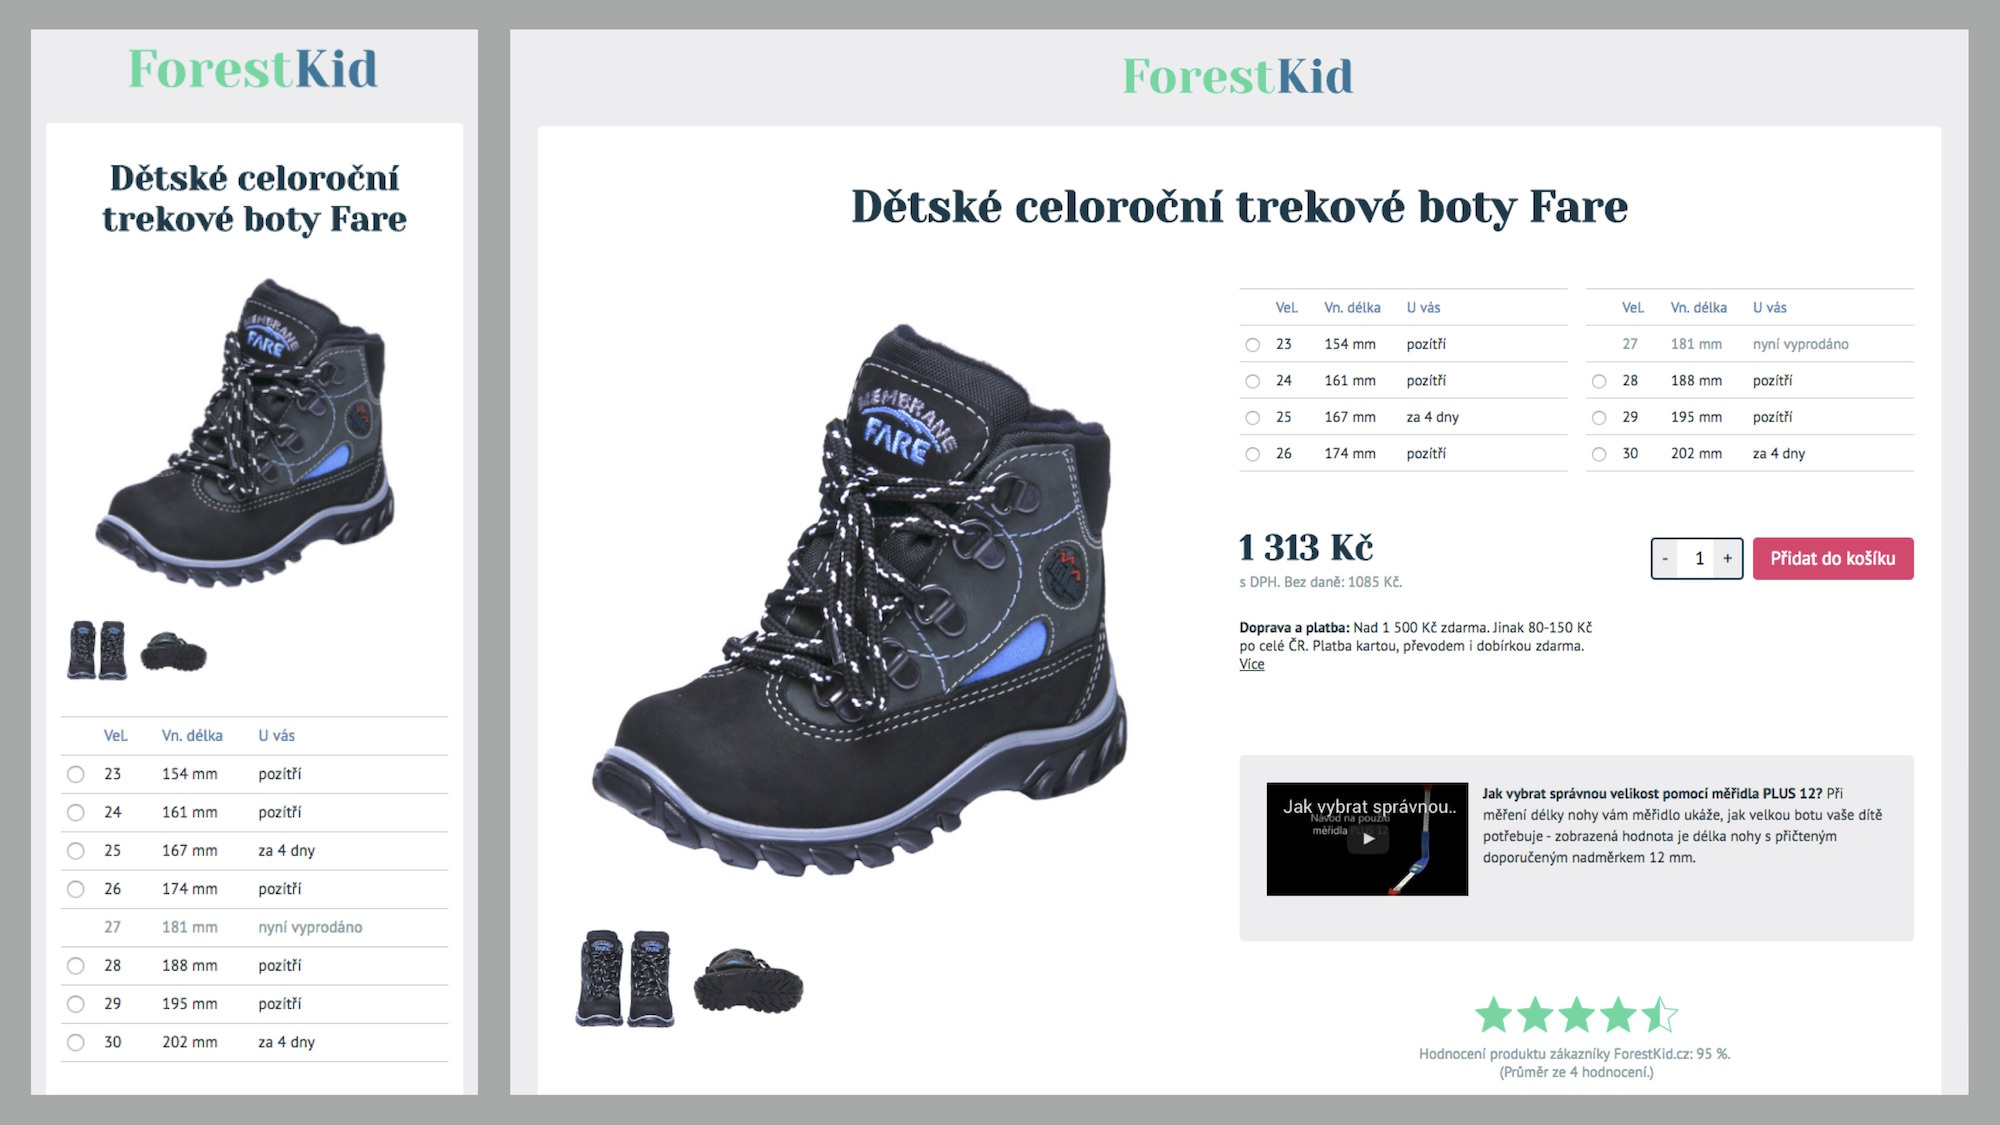
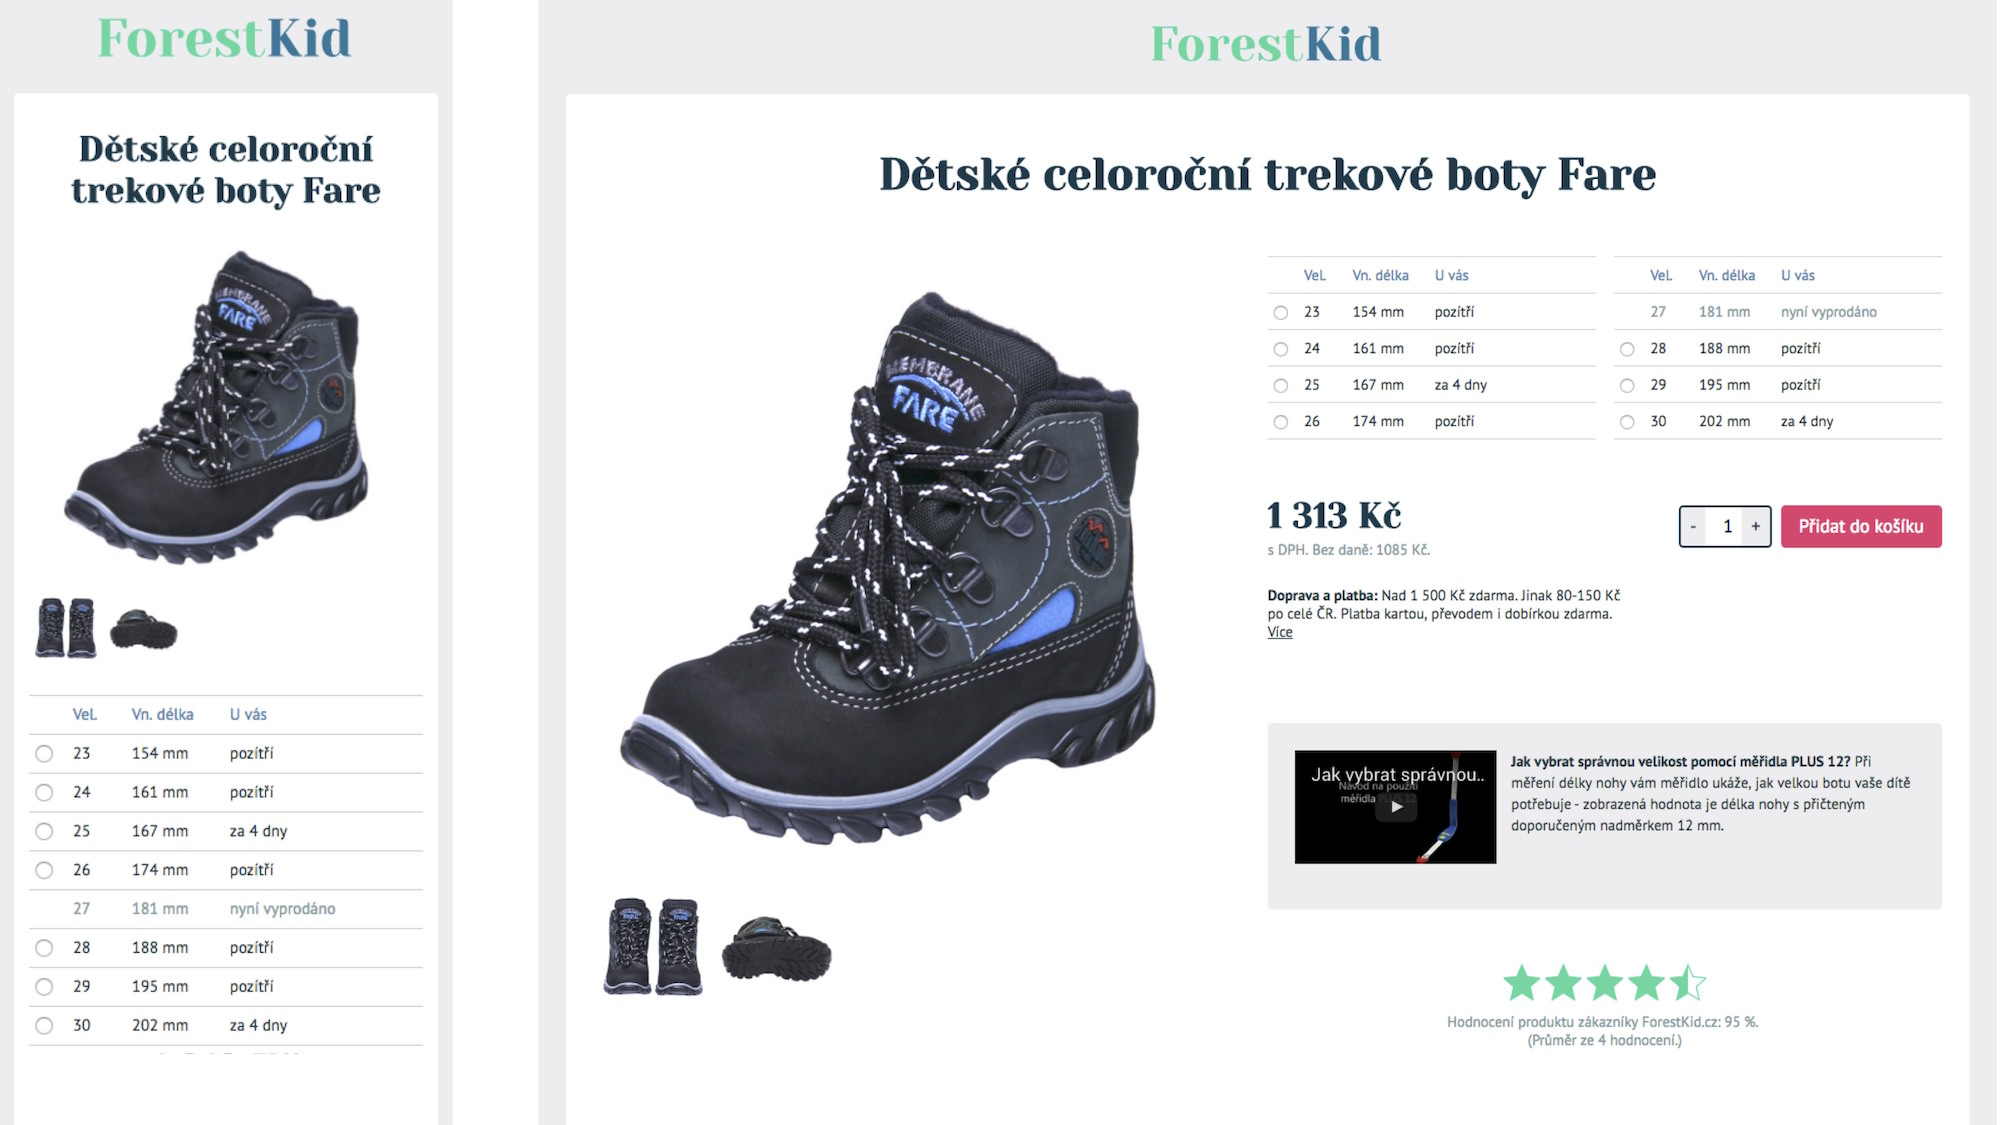
VDWD - posledni nove obrazky

diff --git a/content/skicovani.md b/content/skicovani.md
@@ -5,7 +5,7 @@ Skicování je metoda rychlého zhmotnění myšlenky. Skicuji velmi rád, skicu
 Na papír si skicou odložím základní obrysy problému a uvolním mentální kapacity na jeho vyhodnocování nebo hledání řešení.
 
 <figure>
-<img src="dist/images/original/skicovani-1.png" alt="">
+<img src="dist/images/original/skicovani-1.jpg" alt="">
 <figcaption markdown="1">    
 *Skicování je výborné pro zjednodušení řešení designérských, ale i kodérských problémů. Zpětně těžko říct, co jsem řešil právě tady, ale ušetřilo mi to moc času, to se vsaďte*
 </figcaption> 
@@ -32,7 +32,7 @@ Dále se budu zabývat jen specifickým typem skicování: rychlým náčrtům v
 Jsem na začátku přemýšlení o designu konkrétní komponenty. Skicování v téhle fázi používám proto, abych vygeneroval co nejvíce variant řešení uživatelského rozhraní. Hlavně žádné hodnocení, žádné přemýšlení. Jen kreslím jako šílený.
 
 <figure>
-<img src="dist/images/original/skicovani-2.png" alt="">
+<img src="dist/images/original/skicovani-2.jpg" alt="">
 <figcaption markdown="1">    
 *Tady jsem hledal optimální způsob prezentace výběru čísla bot v detailu produktu na e-shopech. Tohle už je uhlazenější, prezentovatelnější verze*
 </figcaption> 

diff --git a/content/html-prototypovani.md b/content/html-prototypovani.md
@@ -25,7 +25,7 @@ Pokud vám Axure RP a podobné *wireframovací* nástroje vyhovují, není důvo
 HTML prototypy, o kterých tady mluvím, jsou prostě plnohodnotné webové stránky vytvořené technologiemi, které jsou v dnešních prohlížečích po ruce. Jen jsou cíleně zjednodušené – ořezané o některé atributy, které by finální stránka mít měla a prototyp nemusí.
 
 <figure>
-<img src="dist/images/original/html-prototypovani-1.png" alt="">
+<img src="dist/images/original/html-prototypovani-1.jpg" alt="">
 <figcaption markdown="1">    
 *Jeden z raných HTML prototypů VašeČočky.cz a finální stránka webu*
 </figcaption> 

diff --git a/content/mobile-first.md b/content/mobile-first.md
@@ -30,7 +30,7 @@ Návrh rozhraní v desktopovém světě počítal s tím, že máme k dispozici 
 Pro mnohé designéry, včetně mě, je proto lepší si rozhraní navrhnout nejprve pro ty nejmenší displeje. 
 
 <figure>
-<img src="dist/images/original/vdwd/vase-cocky-dve-skici.png" alt="">
+<img src="dist/images/original/vdwd/vase-cocky-dve-skici.jpg" alt="">
 <figcaption markdown="1">    
 *Rychlé ruční skici pro VašeČočky.cz*
 </figcaption> 

diff --git a/content/responzivni-layout.md b/content/responzivni-layout.md
@@ -35,7 +35,7 @@ Pomocí [Media Queries](css3-media-queries.md), které už známe, pak layout na
 ```
 
 <figure>
-<img src="dist/images/original/responzivni-layout.png" alt="">
+<img src="dist/images/original/responzivni-layout.jpg" alt="">
 <figcaption markdown="1">    
 *Jednoduchý responzivní dvousloupcový layout tři ku jedné realizovaný flexboxem*
 </figcaption> 
